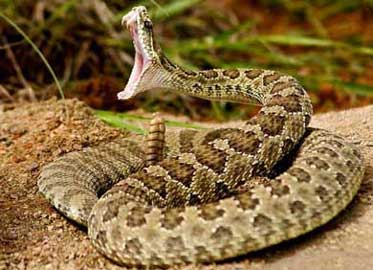
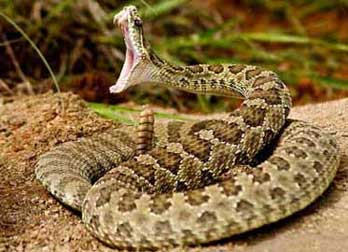
height

diff --git a/finalproject/index.html b/finalproject/index.html
@@ -22,7 +22,12 @@
   <body>
     <div class="page">
       <div class="scales">
-        <img src="images/skin-top.jpg" alt="Scale Top" width="1020" />
+        <img
+          src="images/skin-top.jpg"
+          alt="Scale Top"
+          width="1020"
+          height="58"
+        />
       </div>
       <header>
         <div class="top-bar">
@@ -31,6 +36,7 @@
             src="images/logo.png"
             alt="Snakes of Pennsylvania logo"
             width="250"
+            height="161"
           />
           <h1 class="top-title">Snakes of Pennsylvania</h1>
         </div>
@@ -52,7 +58,12 @@
         </div>
       </header>
       <div class="scales">
-        <img src="images/skin-bottom.jpg" alt="Scale Bottom" width="1020" />
+        <img
+          src="images/skin-bottom.jpg"
+          alt="Scale Bottom"
+          width="1020"
+          height="58"
+        />
       </div>
       <main>
         <section>
@@ -77,6 +88,7 @@
             src="images/pot.jpg"
             alt="Snake in Pot"
             width="1020"
+            height="274"
           />
         </div>
         <section>
@@ -105,6 +117,7 @@
                 src="images/copperhead.jpg"
                 alt="Copperhead Snake"
                 width="500"
+                height="303"
               />
             </section>
             <p>
@@ -123,12 +136,8 @@
           <div class="div-two">
             <section class="sec-four">
               <h3>The Timber Rattlesnake</h3>
-              <img
-                class="timb"
-                src="images/timber.jpg"
-                alt="Timber Rattlesnake"
-                width="500"
-              />
+              <img class="timb" src="images/timber.jpg" alt="Timber Rattlesnake"
+              width="500" height="299"
             </section>
             <p>
               Timber rattlesnakes are large pit-vipers and have a distinctive
@@ -147,6 +156,7 @@
                 src="images/massasaugass.jpg"
                 alt="Massasauga Rattlesnake"
                 width="500"
+                height="300"
               />
             </section>
             <p>
@@ -176,6 +186,7 @@
               src="images/eastern-worm.jpg"
               alt="Eastern Wormsnake"
               width="300"
+              height="200"
             />
             <h5 class="worm-title">Eastern Wormsnake</h5>
           </section>
@@ -185,6 +196,7 @@
               src="images/northern-ringnecked.jpg"
               alt="Northern Ring-Necked Snake"
               width="300"
+              height="200"
             />
             <h5 class="ring-title">Northern Ring-necked Snake</h5>
           </section>
@@ -194,6 +206,7 @@
               src="images/eastern-milk.jpg"
               alt="Eastern Milksnake"
               width="300"
+              height="200"
             />
             <h5 class="milk-title">Eastern Milksnake</h5>
           </section>
@@ -203,6 +216,7 @@
               src="images/kirtlands.jpg"
               alt="Kirtland's Snake"
               width="300"
+              height="200"
             />
             <h5 class="kirt-title">Kirtland's Snake</h5>
           </section>
@@ -212,6 +226,7 @@
               src="images/blackratsnake.jpg"
               alt="Eastern Ratsnake"
               width="300"
+              height="200"
             />
             <h5 class="rat-title">Eastern Ratsnake</h5>
           </section>
@@ -221,6 +236,7 @@
               src="images/northern-watersnake.jpg"
               alt="Northern Watersnake"
               width="300"
+              height="200"
             />
             <h5 class="water-title">Northern Watersnake</h5>
           </section>
@@ -230,6 +246,7 @@
               src="images/black-racer.jpg"
               alt="Northern Black Racer"
               width="300"
+              height="200"
             />
             <h5 class="race-title">Northern Black Racer</h5>
           </section>
@@ -239,6 +256,7 @@
               src="images/eastern-hognosed.jpg"
               alt="Eastern Hog-nosed Snake"
               width="300"
+              height="200"
             />
             <h5 class="hog-title">Eastern Hog-nosed Snake</h5>
           </section>
@@ -248,6 +266,7 @@
               src="images/northern-Rough-green-snake.jpg"
               alt="Northern Rough Greensnake"
               width="300"
+              height="200"
             />
             <h5 class="green-title">Northern Rough Greensnake</h5>
           </section>
@@ -257,6 +276,7 @@
               src="images/queen-snake.jpg"
               alt="Queensnake"
               width="300"
+              height="200"
             />
             <h5 class="queen-title">Queensnake</h5>
           </section>
@@ -266,6 +286,7 @@
               src="images/eastern-worm.jpg"
               alt="Short-headed Gartersnake"
               width="300"
+              height="200"
             />
             <h5 class="short-title">Short-headed Gartersnake</h5>
           </section>
@@ -275,6 +296,7 @@
               src="images/eastern-smoothearth.jpg"
               alt="Eastern Smooth Earthsnake"
               width="300"
+              height="200"
             />
             <h5 class="smooth-title">Eastern Smooth Earthsnake</h5>
           </section>
@@ -284,6 +306,7 @@
               src="images/dekays-brown.jpg"
               alt="Dekay's Brownsnake"
               width="300"
+              height="200"
             />
             <h5 class="dekay-title">Dekay's Brownsnake</h5>
           </section>
@@ -293,6 +316,7 @@
               src="images/eastern-ribbon.jpg"
               alt="Eastern Ribbonsnake"
               width="300"
+              height="200"
             />
             <h5 class="ribbon-title">Eastern Ribbonsnake</h5>
           </section>
@@ -302,6 +326,7 @@
               src="images/mountain-earth.jpg"
               alt="Mountain Earthsnake"
               width="300"
+              height="200"
             />
             <h5 class="mount-title">Mountain Earthsnake</h5>
           </section>
@@ -311,6 +336,7 @@
               src="images/red-bellied.jpg"
               alt="Red-bellied Snake"
               width="300"
+              height="200"
             />
             <h5 class="red-title">Red-bellied Snake</h5>
           </section>
@@ -320,6 +346,7 @@
               src="images/eastern-garter.jpg"
               alt="Eastern Gartersnake"
               width="300"
+              height="200"
             />
             <h5 class="eastgart-title">Eastern Gartersnake</h5>
           </section>
@@ -329,6 +356,7 @@
               src="images/eastern-worm.jpg"
               alt="Smooth Greensnake"
               width="300"
+              height="200"
             />
             <h5 class="smgreen-title">Smooth Greensnake</h5>
           </section>
@@ -339,13 +367,25 @@
         <div class="social">
           <span>
             <a href="https://www.facebook.com/" target="blank">
-              <img src="images/fb.png" alt="Facebook Icon" width="50"
+              <img
+                src="images/fb.png"
+                alt="Facebook Icon"
+                width="50"
+                height="50"
             /></a>
             <a href="https://www.twitter.com" target="blank">
-              <img src="images/twitter.png" alt="Twitter Icon" width="50"
+              <img
+                src="images/twitter.png"
+                alt="Twitter Icon"
+                width="50"
+                height="50"
             /></a>
             <a href="https://www.instagram.com" target="blank">
-              <img src="images/insta.png" alt="Instagram Icon" width="50"
+              <img
+                src="images/insta.png"
+                alt="Instagram Icon"
+                width="50"
+                height="50"
             /></a>
           </span>
         </div>

diff --git a/finalproject/snakes.html b/finalproject/snakes.html
@@ -21,7 +21,12 @@
   <body>
     <div class="page">
       <div class="scales">
-        <img src="images/skin-top.jpg" alt="Scale Top" width="1020" />
+        <img
+          src="images/skin-top.jpg"
+          alt="Scale Top"
+          width="1020"
+          height="58"
+        />
       </div>
       <header>
         <div class="top-bar">
@@ -30,6 +35,7 @@
             src="images/logo.png"
             alt="Snakes of Pennsylvania logo"
             width="250"
+            height="161"
           />
           <h1 class="top-title">Snakes of Pennsylvania</h1>
         </div>
@@ -48,7 +54,12 @@
         </div>
       </header>
       <div class="scales">
-        <img src="images/skin-bottom.jpg" alt="Scale Bottom" width="1020" />
+        <img
+          src="images/skin-bottom.jpg"
+          alt="Scale Bottom"
+          width="1020"
+          height="58"
+        />
       </div>
       <main>
         <section>
@@ -61,6 +72,7 @@
               src="images/scales.jpg"
               alt="Snake Scales"
               width="200"
+              height="150"
             />
             <section class="scales">
               <h3>Scales</h3>
@@ -80,6 +92,7 @@
               src="images/shed.jpg"
               alt="Snake Shed"
               width="200"
+              height="150"
             />
             <section class="shedding">
               <h3>Shedding</h3>
@@ -98,6 +111,7 @@
               src="images/tongue.jpg"
               alt="Snake Tongue"
               width="200"
+              height="150"
             />
             <section class="tongues">
               <h3>Forked Tongue</h3>
@@ -117,6 +131,7 @@
               src="images/fangs.jpg"
               alt="Snake Shed"
               width="200"
+              height="150"
             />
             <section class="fangs">
               <h3>Teeth and Fangs</h3>
@@ -137,6 +152,7 @@
               src="images/shed.jpg"
               alt="Snake Rattle"
               width="200"
+              height="150"
             />
             <section class="rattle">
               <h3>Tail Rattle</h3>
@@ -157,6 +173,7 @@
               src="images/eat.jpg"
               alt="Snake Eating"
               width="200"
+              height="150"
             />
             <section class="eats">
               <h3>How They Eat</h3>
@@ -176,6 +193,7 @@
               src="images/eye.jpg"
               alt="Snake Eyes"
               width="200"
+              height="150"
             />
             <section class="eyes">
               <h3>Eyes</h3>

diff --git a/finalproject/bite.html b/finalproject/bite.html
@@ -21,7 +21,12 @@
   <body>
     <div class="page">
       <div class="scales">
-        <img src="images/skin-top.jpg" alt="Scale Top" width="1020" />
+        <img
+          src="images/skin-top.jpg"
+          alt="Scale Top"
+          width="1020"
+          height="58"
+        />
       </div>
       <header>
         <div class="top-bar">
@@ -30,6 +35,7 @@
             src="images/logo.png"
             alt="Snakes of Pennsylvania logo"
             width="250"
+            height="161"
           />
           <h1 class="top-title">Snakes of Pennsylvania</h1>
         </div>
@@ -48,7 +54,12 @@
         </div>
       </header>
       <div class="scales">
-        <img src="images/skin-bottom.jpg" alt="Scale Bottom" width="1020" />
+        <img
+          src="images/skin-bottom.jpg"
+          alt="Scale Bottom"
+          width="1020"
+          height="58"
+        />
       </div>
       <main>
         <div>
@@ -62,9 +73,20 @@
               teeth but there will not be any large fang marks. If you do
               receive a venomous snake bite, follow the guidlines below.
             </p>
-            <img src="images/strike.jpg" alt="Snake Striking" width="348" />
-            <img src="images/holes.jpg" alt="Bite Marks" width="227" />
-            <img src="images/mouth.jpg" alt="Open Mouth" width="348" />
+            <img
+              src="images/strike.jpg"
+              alt="Snake Striking"
+              width="348"
+              height="252"
+            />
+            <img
+              src="images/holes.jpg"
+              alt="Bite Marks"
+              width="227"
+              height="256"
+            />
+            <img src="images/mouth.jpg" alt="Open Mouth" width="348"
+            height="252/>
           </div>
           <div class="tips">
             <div class="do">
